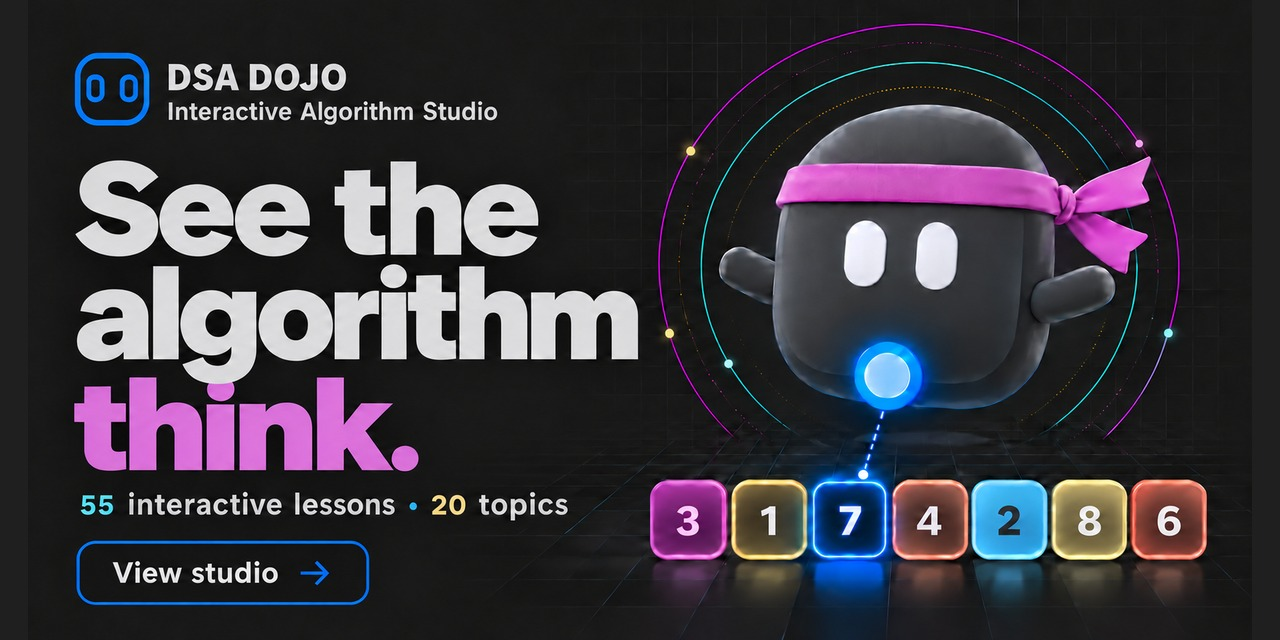
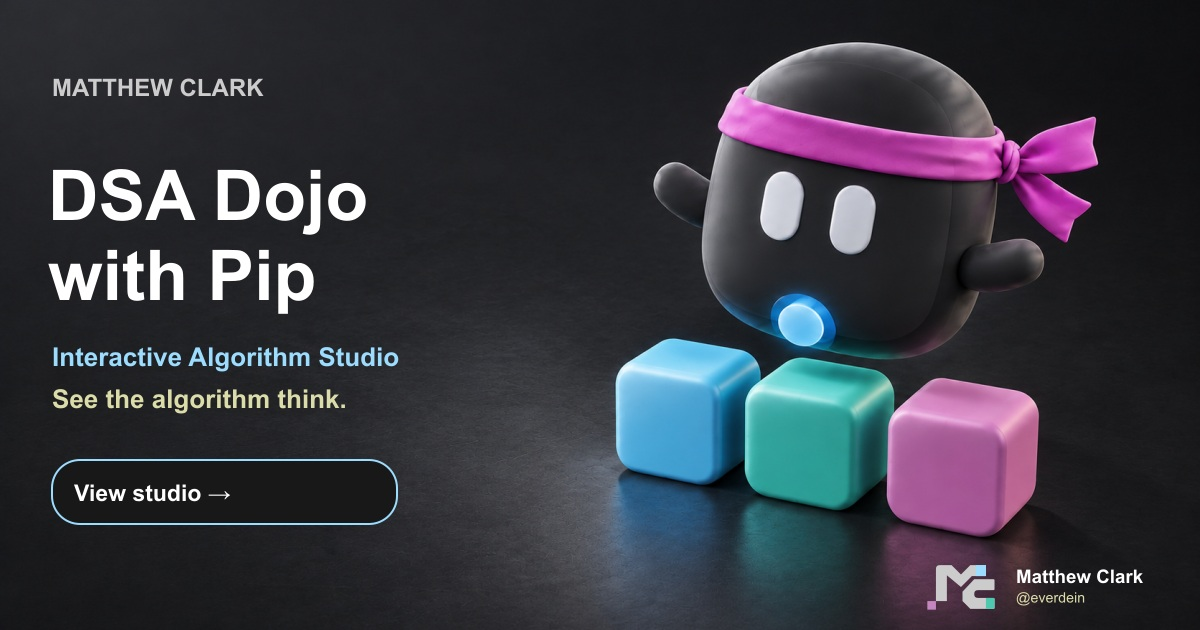
Add engineering case study and coordinated Dojo social preview (#33)

diff --git a/studio/index.html b/studio/index.html
@@ -10,11 +10,11 @@
     <meta property="og:url" content="https://everdein.github.io/dsa-dojo/studio/" />
     <meta property="og:title" content="DSA Dojo — Interactive Algorithm Studio" />
     <meta property="og:description" content="Step through 55 JavaScript algorithm lessons with synchronized state, source code, and explanation." />
-    <meta property="og:image" content="https://everdein.github.io/dsa-dojo/social-preview.jpg?v=20261023-balanced" />
+    <meta property="og:image" content="https://everdein.github.io/dsa-dojo/social-preview.jpg?v=20261024-syntax-accent" />
     <meta name="twitter:card" content="summary_large_image" />
     <meta name="twitter:title" content="DSA Dojo — Interactive Algorithm Studio" />
     <meta name="twitter:description" content="Pause, predict, and explain 55 JavaScript algorithm lessons one decision at a time." />
-    <meta name="twitter:image" content="https://everdein.github.io/dsa-dojo/social-preview.jpg?v=20261023-balanced" />
+    <meta name="twitter:image" content="https://everdein.github.io/dsa-dojo/social-preview.jpg?v=20261024-syntax-accent" />
     <title>DSA Dojo — Interactive Algorithm Studio</title>
     <link rel="canonical" href="https://everdein.github.io/dsa-dojo/studio/" />
     <link rel="icon" href="../favicon.svg" type="image/svg+xml" />

diff --git a/studio/home.html b/studio/home.html
@@ -10,11 +10,11 @@
     <meta property="og:url" content="https://everdein.github.io/dsa-dojo/" />
     <meta property="og:title" content="DSA Dojo — See the Algorithm Think" />
     <meta property="og:description" content="Interactive JavaScript lessons that synchronize algorithm state, source code, and explanation." />
-    <meta property="og:image" content="https://everdein.github.io/dsa-dojo/social-preview.jpg?v=20261023-balanced" />
+    <meta property="og:image" content="https://everdein.github.io/dsa-dojo/social-preview.jpg?v=20261024-syntax-accent" />
     <meta name="twitter:card" content="summary_large_image" />
     <meta name="twitter:title" content="DSA Dojo — See the Algorithm Think" />
     <meta name="twitter:description" content="Pause, predict, and explain data structures and algorithms one decision at a time." />
-    <meta name="twitter:image" content="https://everdein.github.io/dsa-dojo/social-preview.jpg?v=20261023-balanced" />
+    <meta name="twitter:image" content="https://everdein.github.io/dsa-dojo/social-preview.jpg?v=20261024-syntax-accent" />
     <title>DSA Dojo — See the Algorithm Think</title>
     <link rel="canonical" href="https://everdein.github.io/dsa-dojo/" />
     <link rel="icon" href="./favicon.svg" type="image/svg+xml" />

diff --git a/docs/portfolio-case-study.md b/docs/portfolio-case-study.md
@@ -1,0 +1,84 @@
+# DSA Dojo Engineering Case Study
+
+DSA Dojo makes algorithm execution explorable: change an input, predict the next
+decision, step forward, rewind, and compare the visible state with executable
+JavaScript. The engineering question is how to preserve that connection as the
+curriculum grows across different data structures.
+
+## Product walkthrough
+
+1. Open [the live studio](https://everdein.github.io/dsa-dojo/studio).
+2. Select Find Largest and enter `-4, 8, 8, 3`. Step forward twice, then rewind.
+3. Compare the highlighted code with the current values and Pip's explanation.
+4. Open Detect a Cycle to inspect a connected-node algorithm through the same
+   player controls.
+5. Share a custom execution state and reopen the link to resume that decision.
+
+The product supports exploration and reflection. Improved learning outcomes,
+retention, and adoption have not been established through a learner study.
+
+## Engineering decisions
+
+### Represent execution as data
+
+Pure algorithms and deterministic trace builders produce owned snapshots of
+each decision. A shared player selects a step rather than reversing mutations
+in a running animation. This supports replay and rewind, with the tradeoff of
+retaining trace state in memory.
+
+### Verify the explanation as well as the answer
+
+Runtime trace validation checks structure, source references, and renderer
+snapshots. The stronger test/build path constructs traces twice, checks input
+immutability and deterministic equality, and compares the final result with an
+independent solver. These checks cover tested inputs; they are not a proof of
+correctness for every possible execution.
+
+### Extend through contracts
+
+Lessons declare their input, solver, trace, code anchors, guide, and renderer
+panels. Renderer adapters project domain state into semantic DOM presentation.
+This allows array, graph, tree, and composite lessons to share player controls
+without putting algorithm-specific branches into the composition root.
+
+Browser-native modules keep the execution path inspectable and the static
+release free of runtime package dependencies. The corresponding responsibility
+is maintaining explicit browser controllers, state boundaries, and contracts.
+
+### Keep code and visible execution connected
+
+The source pane derives physical code lines from semantic anchors in the domain
+module. Unrelated line insertions no longer require manually renumbering each
+downstream reference. Focused tests catch missing anchors; authoring still
+requires meaningful mappings between a trace decision and its source.
+
+### Let the curriculum grow without loading every lesson
+
+A lightweight manifest supplies the catalog. The browser dynamically imports
+the selected lesson and caches its promise; comparison mode loads its selected
+pair. CI uses an eager registry to verify the whole curriculum. This separates
+interactive startup work from comprehensive verification without claiming an
+unmeasured performance improvement.
+
+## Result and evidence
+
+The current curriculum contains 55 lessons using nine renderer families, with
+shared playback, comparison, challenges, and shareable state. The deployed
+static product demonstrates a reusable interactive system across several
+algorithm families. Lesson count describes scope, not educational effectiveness.
+
+Run `npm run check:release` after installing dependencies and Playwright Chromium.
+The release suite exercises algorithms, contracts, static artifacts, and browser
+flows, including automated accessibility checks. The main deployment workflow
+requires the browser job to pass before publishing GitHub Pages. Automated
+accessibility checks do not establish a complete manual assistive-technology audit.
+
+Supporting sources:
+
+- [Studio architecture and extension workflow](studio-architecture.md)
+- [Lesson and trace validation](../studio/src/lesson-contract.mjs)
+- [Player state machine](../studio/src/player.mjs)
+- [Curriculum manifest](../studio/src/curriculum-manifest.mjs)
+- [Source-pane mapping](../studio/src/source-pane.mjs)
+- [Release workflow](../.github/workflows/ci.yml)
+- [Browser verification](../e2e/studio.spec.mjs)

diff --git a/docs/visual-system.md b/docs/visual-system.md
@@ -8,8 +8,27 @@ The portfolio, Pay Period Planner and DSA Dojo share a system-font pairing:
 
 Fonts are supplied by the device; no font service or remote font request is required.
 
-Dark Modern uses #1F1F1F for the canvas, #181818 for side panels, #CCCCCC for body text, #0078D4 for actions and focus, and #9CDCFE for readable blue accents. Yellow #DCDCAA, magenta #C586C0 and salmon #CE9178 distinguish supporting details. Error states use #F85149. Green and teal are not brand or interface accents. Light mode, where supported, keeps neutral surfaces and blue interactions.
+Dark Modern uses #1F1F1F for the canvas, #181818 for side panels, #CCCCCC for body text, #0078D4 for actions and focus, and #9CDCFE for readable blue accents. Yellow #DCDCAA, magenta #C586C0 and salmon #CE9178 distinguish supporting details. Error states use #F85149. Interface actions remain blue; the personal MC mark includes a small teal #4EC9B0 terminal. Light mode, where supported, keeps neutral surfaces and blue interactions.
 
 Application screenshots are real browser captures. Planner captures use an isolated synthetic workspace. Marketing thumbnails are illustrative and are refreshed when the visible design changes.
 
 Large panels stay neutral charcoal. Light blue, magenta, warm yellow and salmon distinguish labels and supporting details, matching the portfolio technology labels. Blue marks actions and focus rather than filling decorative panels.
+
+## Personal identity and media
+
+The approved Syntax Accent identity uses one geometric MC mark for Matthew
+Clark, with @everdein as the secondary handle. The main mark is neutral, with
+one pink #C586C0 pixel, a light-blue #9CDCFE M terminal, and a teal #4EC9B0 C
+terminal. Dark lockups use a white name and warm-yellow #DCDCAA handle.
+Dojo retains Pip and its own product icon; MC indicates authorship.
+
+Thumbnails share Arial Bold, white two-line titles, light-blue first supporting
+lines, warm-yellow second supporting lines, a single destination-specific call
+to action, and a small integrated MC signature. Artwork uses a coordinated
+three-quarter view and soft upper-left lighting. It is illustrative marketing,
+separate from real application screenshots and synthetic evidence captures.
+
+The approved masters, exports, and usage guide are in the
+[Brand Library](https://drive.google.com/drive/folders/124_uxAkQmThnHkAbvG4J7vz3TeCKAD9i).
+Refresh the appropriate live-product or source-repository variant, preserving
+its destination. Do not replace application evidence screenshots with artwork.

diff --git a/README.md b/README.md
@@ -2,6 +2,9 @@
 
 **See the algorithm think.**
 
+[Read the engineering case study](docs/portfolio-case-study.md) for the execution
+model, design tradeoffs, verification evidence, and limits of the product claims.
+
 [![CI](https://github.com/everdein/dsa-dojo/actions/workflows/ci.yml/badge.svg)](https://github.com/everdein/dsa-dojo/actions/workflows/ci.yml)
 
 [Open the live DSA Dojo](https://everdein.github.io/dsa-dojo/)
